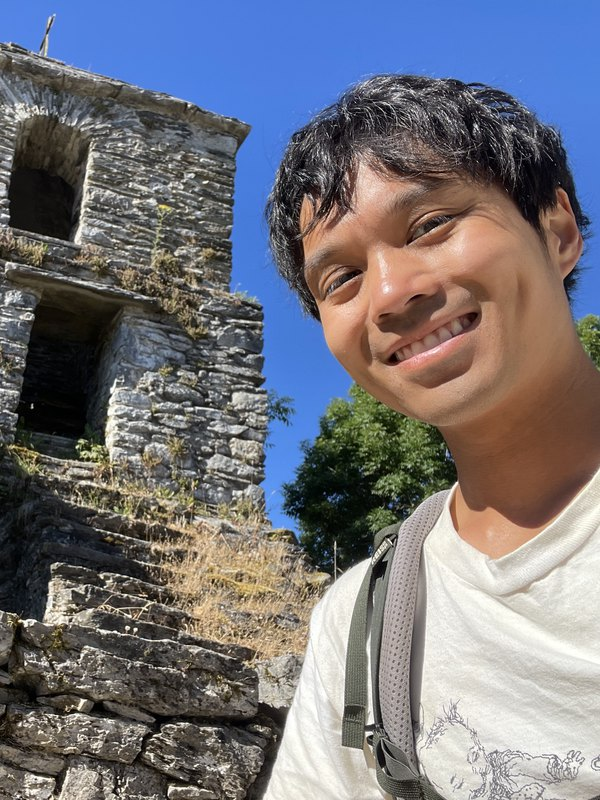
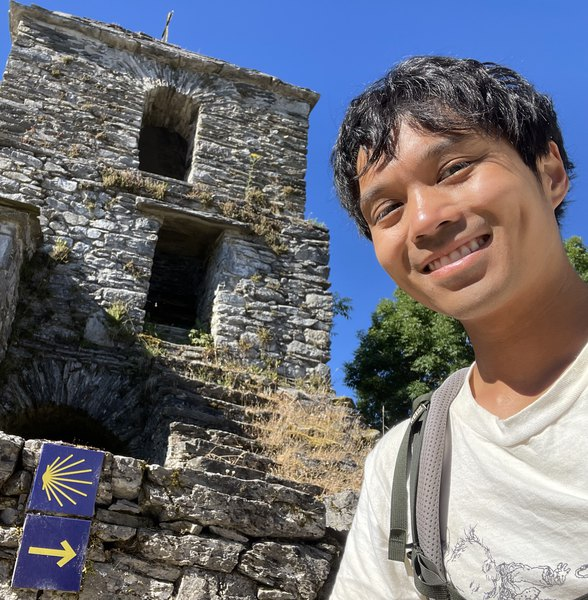
Profile photo nearly square, showing the Camino shell sign

diff --git a/assets/css/style.css b/assets/css/style.css
@@ -44,7 +44,7 @@ blockquote { border-left: 2px solid var(--rule); margin-left: 0; padding-left: 1
 
 /* About */
 .about { display: flex; gap: 28px; align-items: flex-start; flex-wrap: wrap; }
-.avatar { width: 180px; height: auto; aspect-ratio: 3 / 4; border-radius: 0; object-fit: cover; }
+.avatar { width: 180px; height: auto; aspect-ratio: 49 / 50; border-radius: 0; object-fit: cover; }
 .about h1 { font-size: 1.25rem; margin: 0 0 10px; line-height: 1.4; letter-spacing: 0.03em; }
 .name-ko { margin: -6px 0 12px; font-family: var(--serif); font-size: 0.9rem; letter-spacing: 0.2em; color: var(--muted); }
 .interests { margin: 0; font-size: 0.88rem; color: var(--text); }
@@ -58,7 +58,7 @@ body.wide .wrap { max-width: 1040px; }
 .home { display: grid; grid-template-columns: minmax(220px, 280px) minmax(0, 1fr); gap: 48px; align-items: start; }
 .panel-about { position: sticky; top: 24px; }
 .panel-about .about { flex-direction: column; gap: 16px; }
-.panel-about .avatar { width: 165px; height: auto; }
+.panel-about .avatar { width: 190px; height: auto; }
 
 .tabs { display: flex; gap: 32px; border-bottom: 1px solid var(--rule); }
 .tab { background: none; border: 0; padding: 0 0 8px; margin-bottom: -1px; cursor: pointer; font-family: var(--serif); font-size: 0.95rem; font-weight: 400; letter-spacing: 0.08em; line-height: 1.2; color: var(--muted); border-bottom: 1px solid transparent; }
